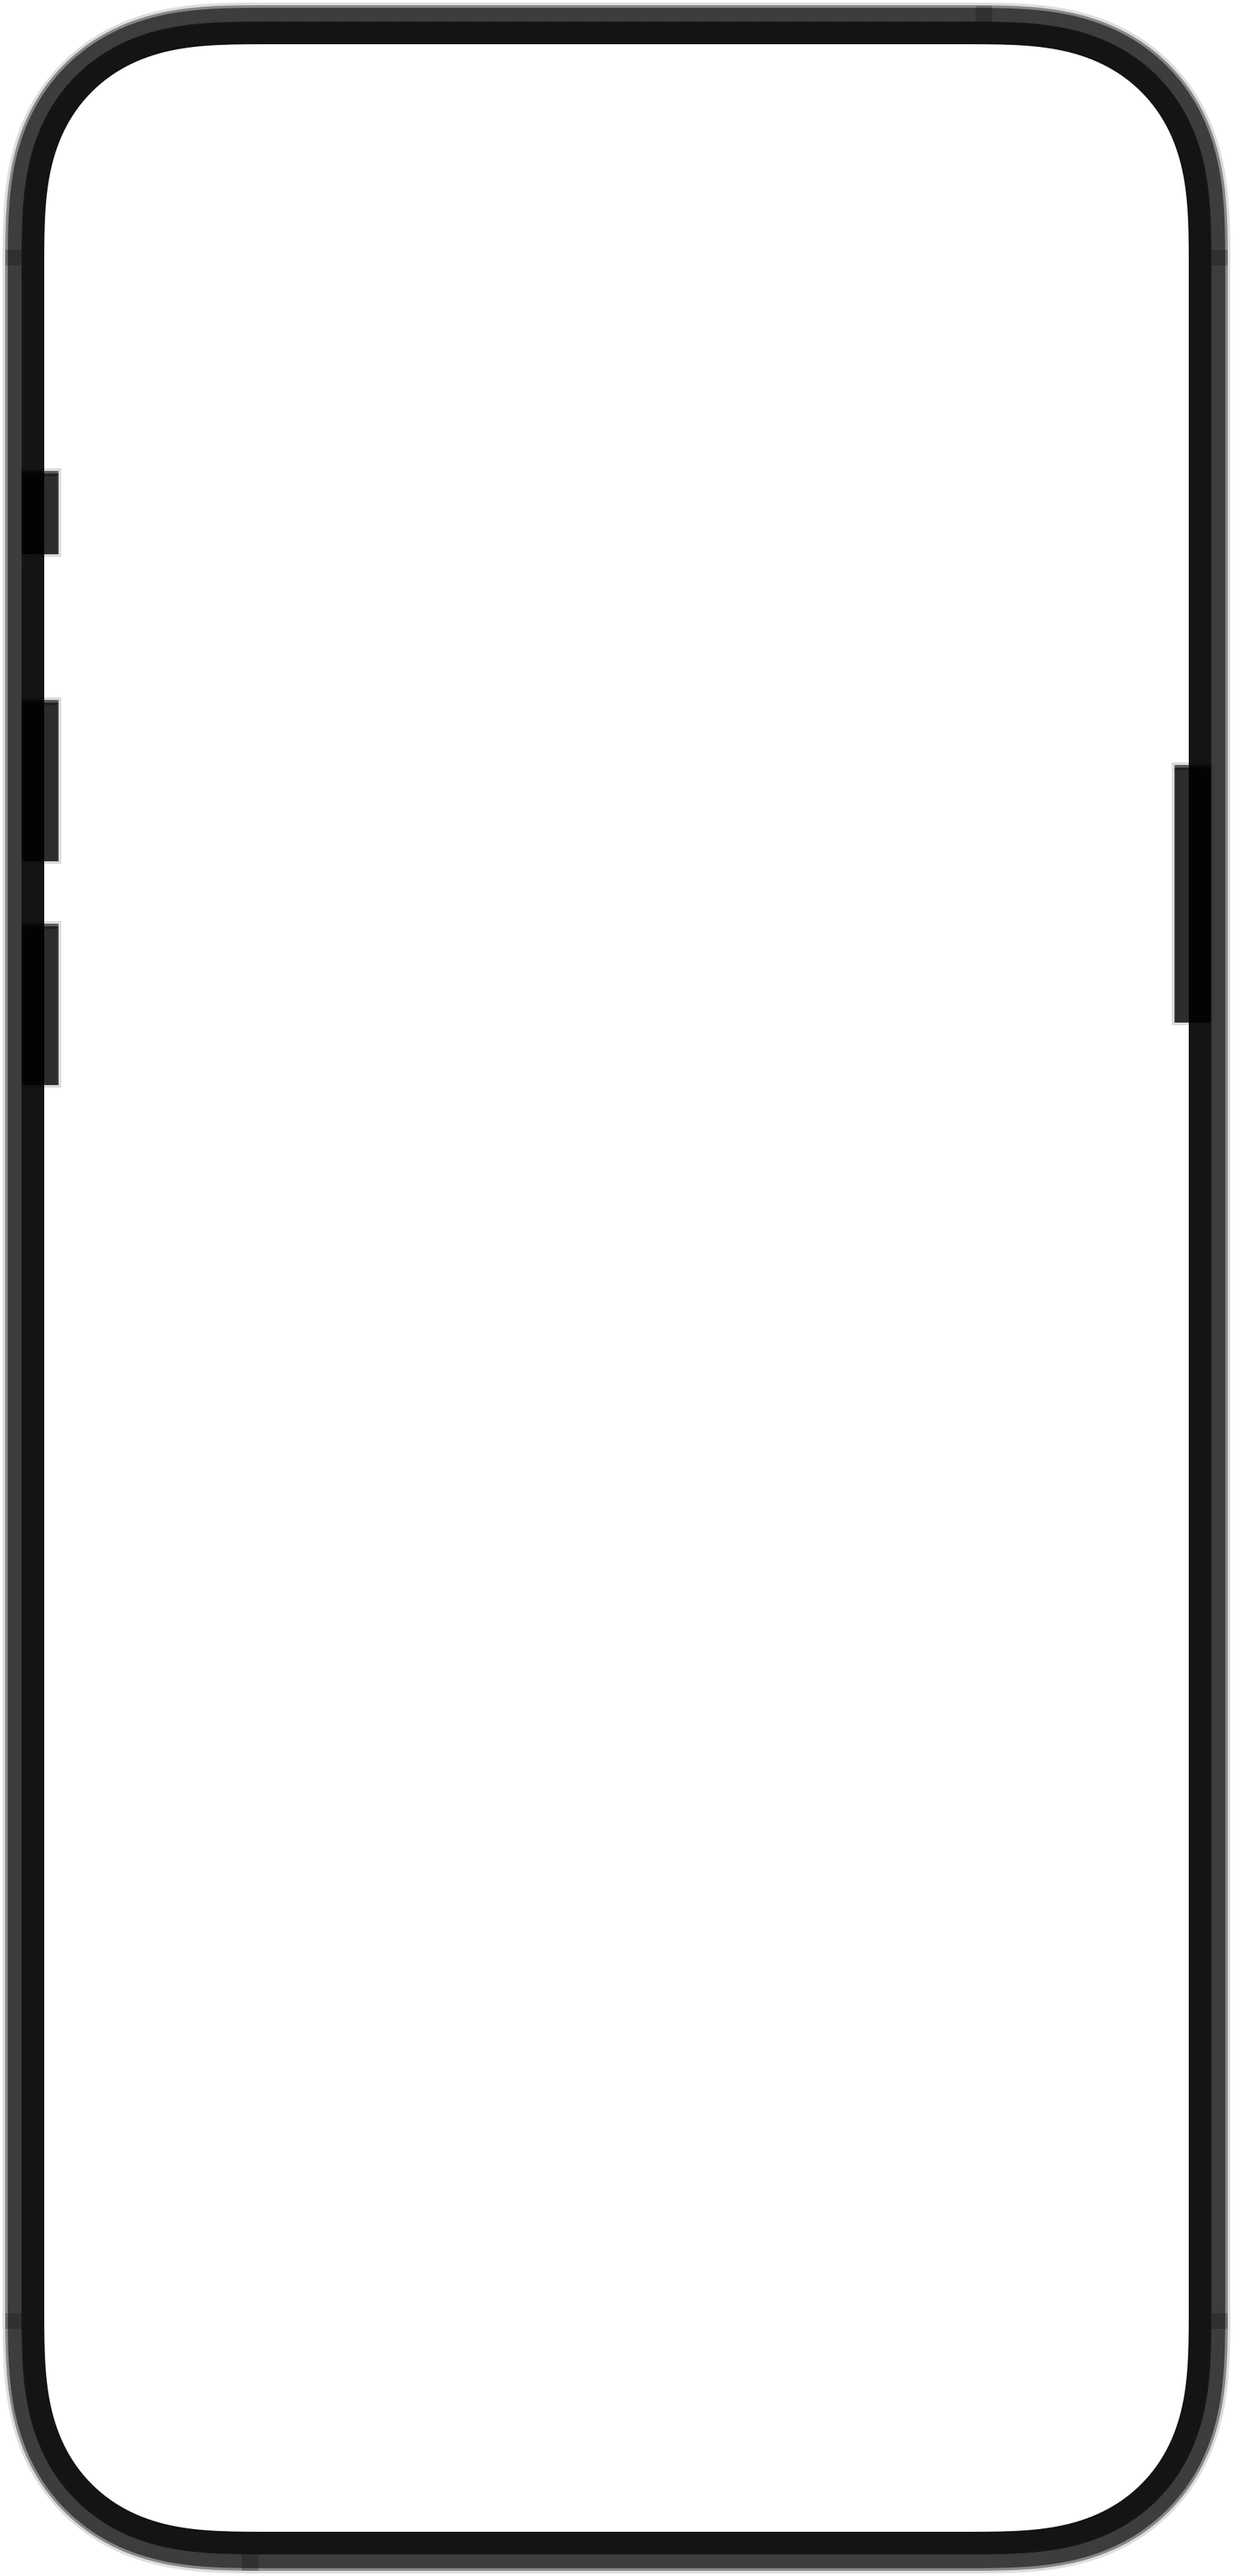
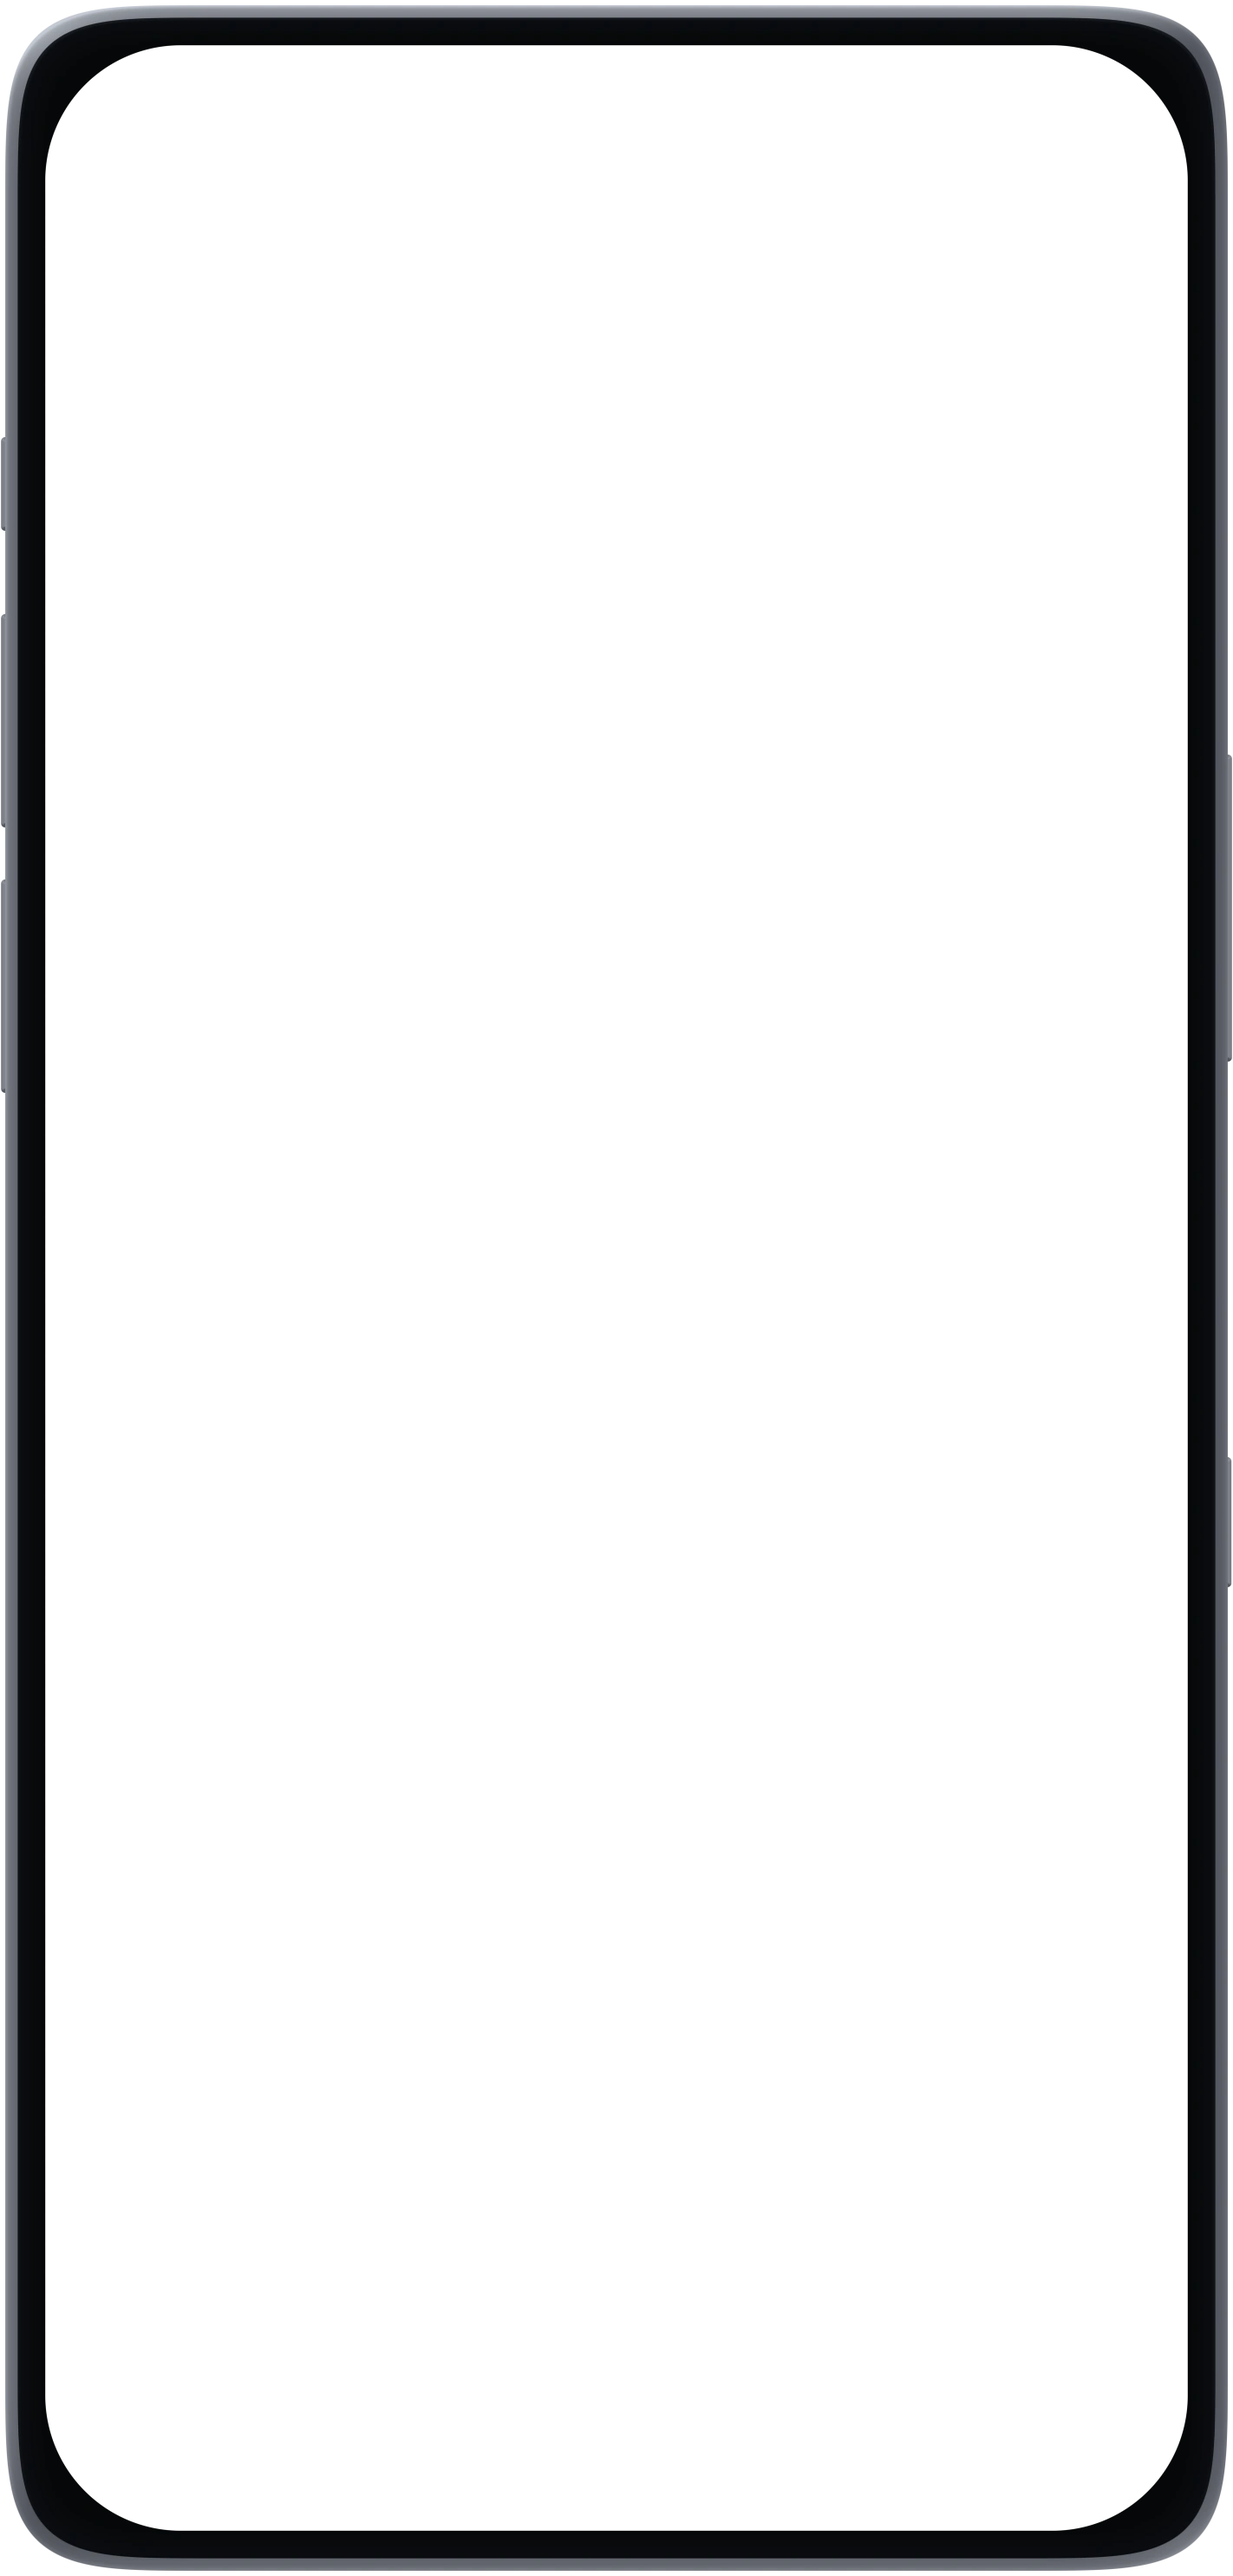
Cadres iPhone et Apple Watch dessinés en code (proportions mesurées, titane, boutons), sans fichier Apple

Changed region(s): [[0.0, 0.0, 1.0, 1.0]]

diff --git a/index.html b/index.html
@@ -294,10 +294,10 @@ footer small{display:block;margin-top:12px;font-size:12px}
         <defs><clipPath id="scrClip"><rect x="17" y="17" width="440" height="956" rx="52"/></clipPath></defs>
         <g clip-path="url(#scrClip)" class="scr"><image data-src="dashboard" x="17" y="17" width="440" height="956" preserveAspectRatio="xMidYMid slice"/><image data-src="model3d" x="17" y="17" width="440" height="956" preserveAspectRatio="xMidYMid slice"/><image data-src="speedmap" x="17" y="17" width="440" height="956" preserveAspectRatio="xMidYMid slice"/><image data-src="lock" x="17" y="17" width="440" height="956" preserveAspectRatio="xMidYMid slice"/><image data-src="fall" x="17" y="17" width="440" height="956" preserveAspectRatio="xMidYMid slice"/></g>
         <g clip-path="url(#scrClip)" class="hl"><rect x="30.2" y="346.8" width="413.6" height="172.1" rx="26"/><rect x="34.6" y="800.9" width="404.8" height="129.1" rx="26"/><rect x="34.6" y="781.8" width="404.8" height="138.6" rx="26"/><rect x="30.2" y="692.9" width="413.6" height="145.3" rx="26"/><rect x="39.0" y="590.6" width="396.0" height="200.8" rx="26"/></g>
-        <image href="assets/iphone-frame.webp?v=3" x="0" y="0" width="474" height="990"/>
+        <image href="assets/iphone-frame.webp?v=4" x="0" y="0" width="474" height="990"/>
       </svg>
     </div></div>
-    <div class="watch" id="watch"><div class="wscr"><img data-src="watch" alt=""></div><img class="wf" src="assets/watch-frame.webp?v=3" alt=""></div>
+    <div class="watch" id="watch"><div class="wscr"><img data-src="watch" alt=""></div><img class="wf" src="assets/watch-frame.webp?v=4" alt=""></div>
   </div>
 
   <div class="st-text">

diff --git a/assets/film3.js b/assets/film3.js
@@ -315,7 +315,7 @@ void main(){
       list["share-" + l] = "share-" + l + ".webp"; list["watch-" + l] = "watch-" + l + ".webp";
     }
     list["replay-fr"] = "hd/replay-fr.webp";
-    await Promise.all(Object.entries(list).map(([k, v]) => loadImg(BASE + v + "?v=3").then(i => { TEX[k] = makeTexture(i); })));
+    await Promise.all(Object.entries(list).map(([k, v]) => loadImg(BASE + v + "?v=4").then(i => { TEX[k] = makeTexture(i); })));
     TEX["replay-en"] = TEX["replay-fr"];
     ready = true; loading = false;
   }
